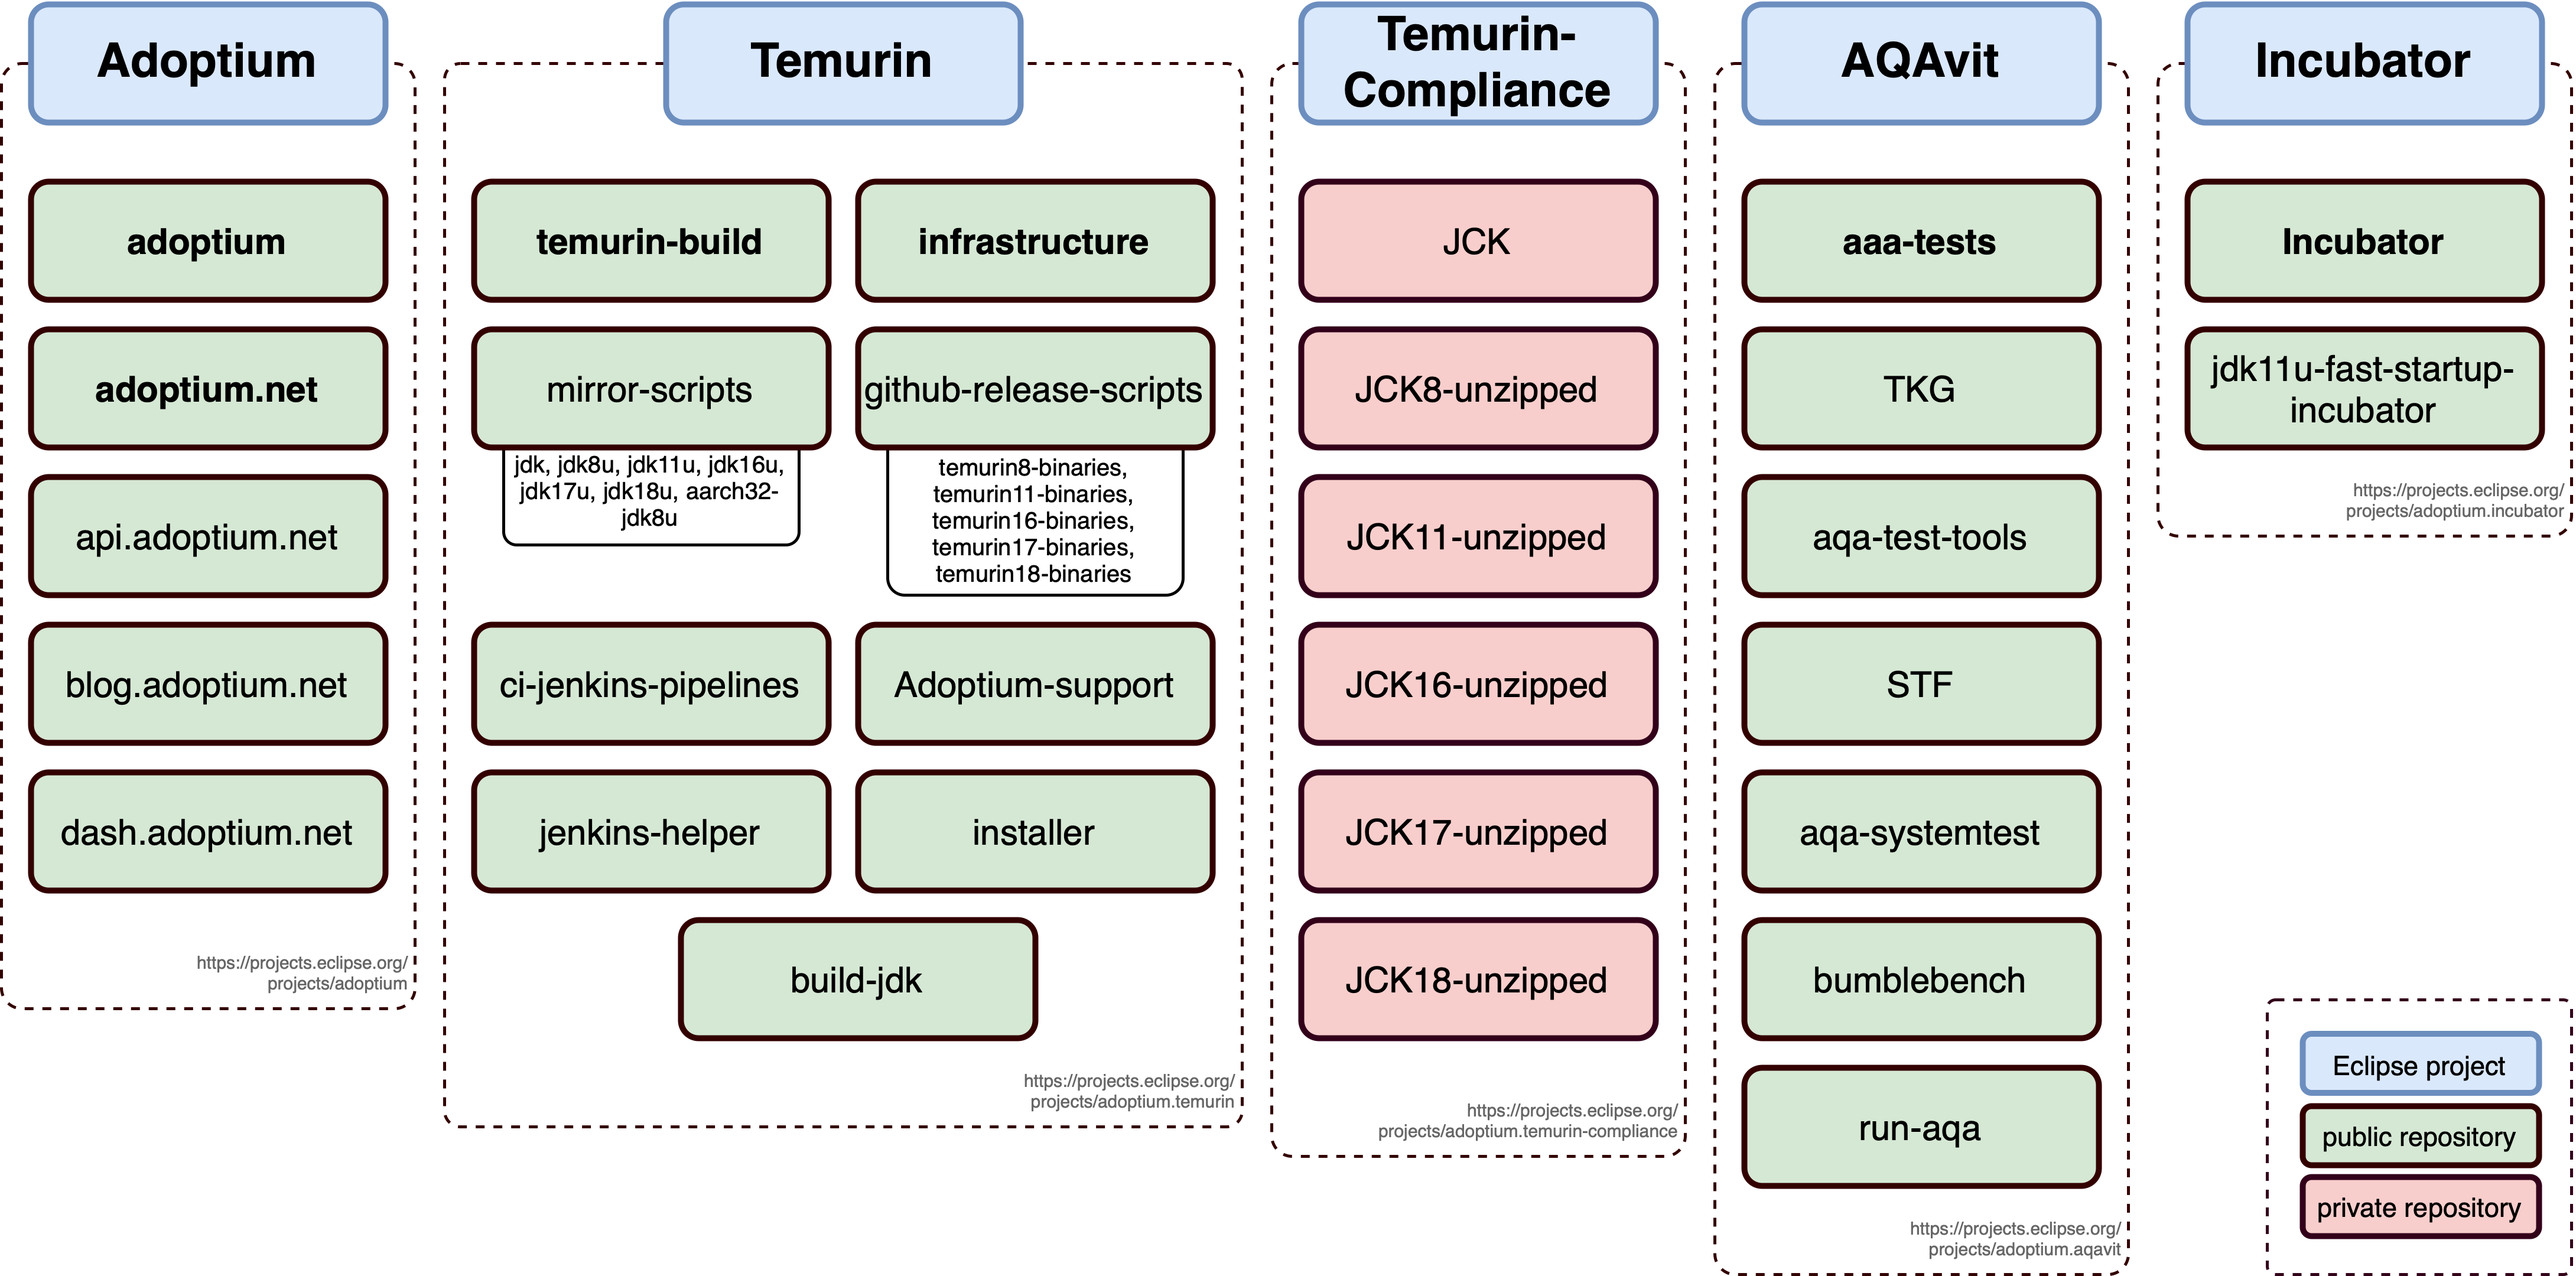
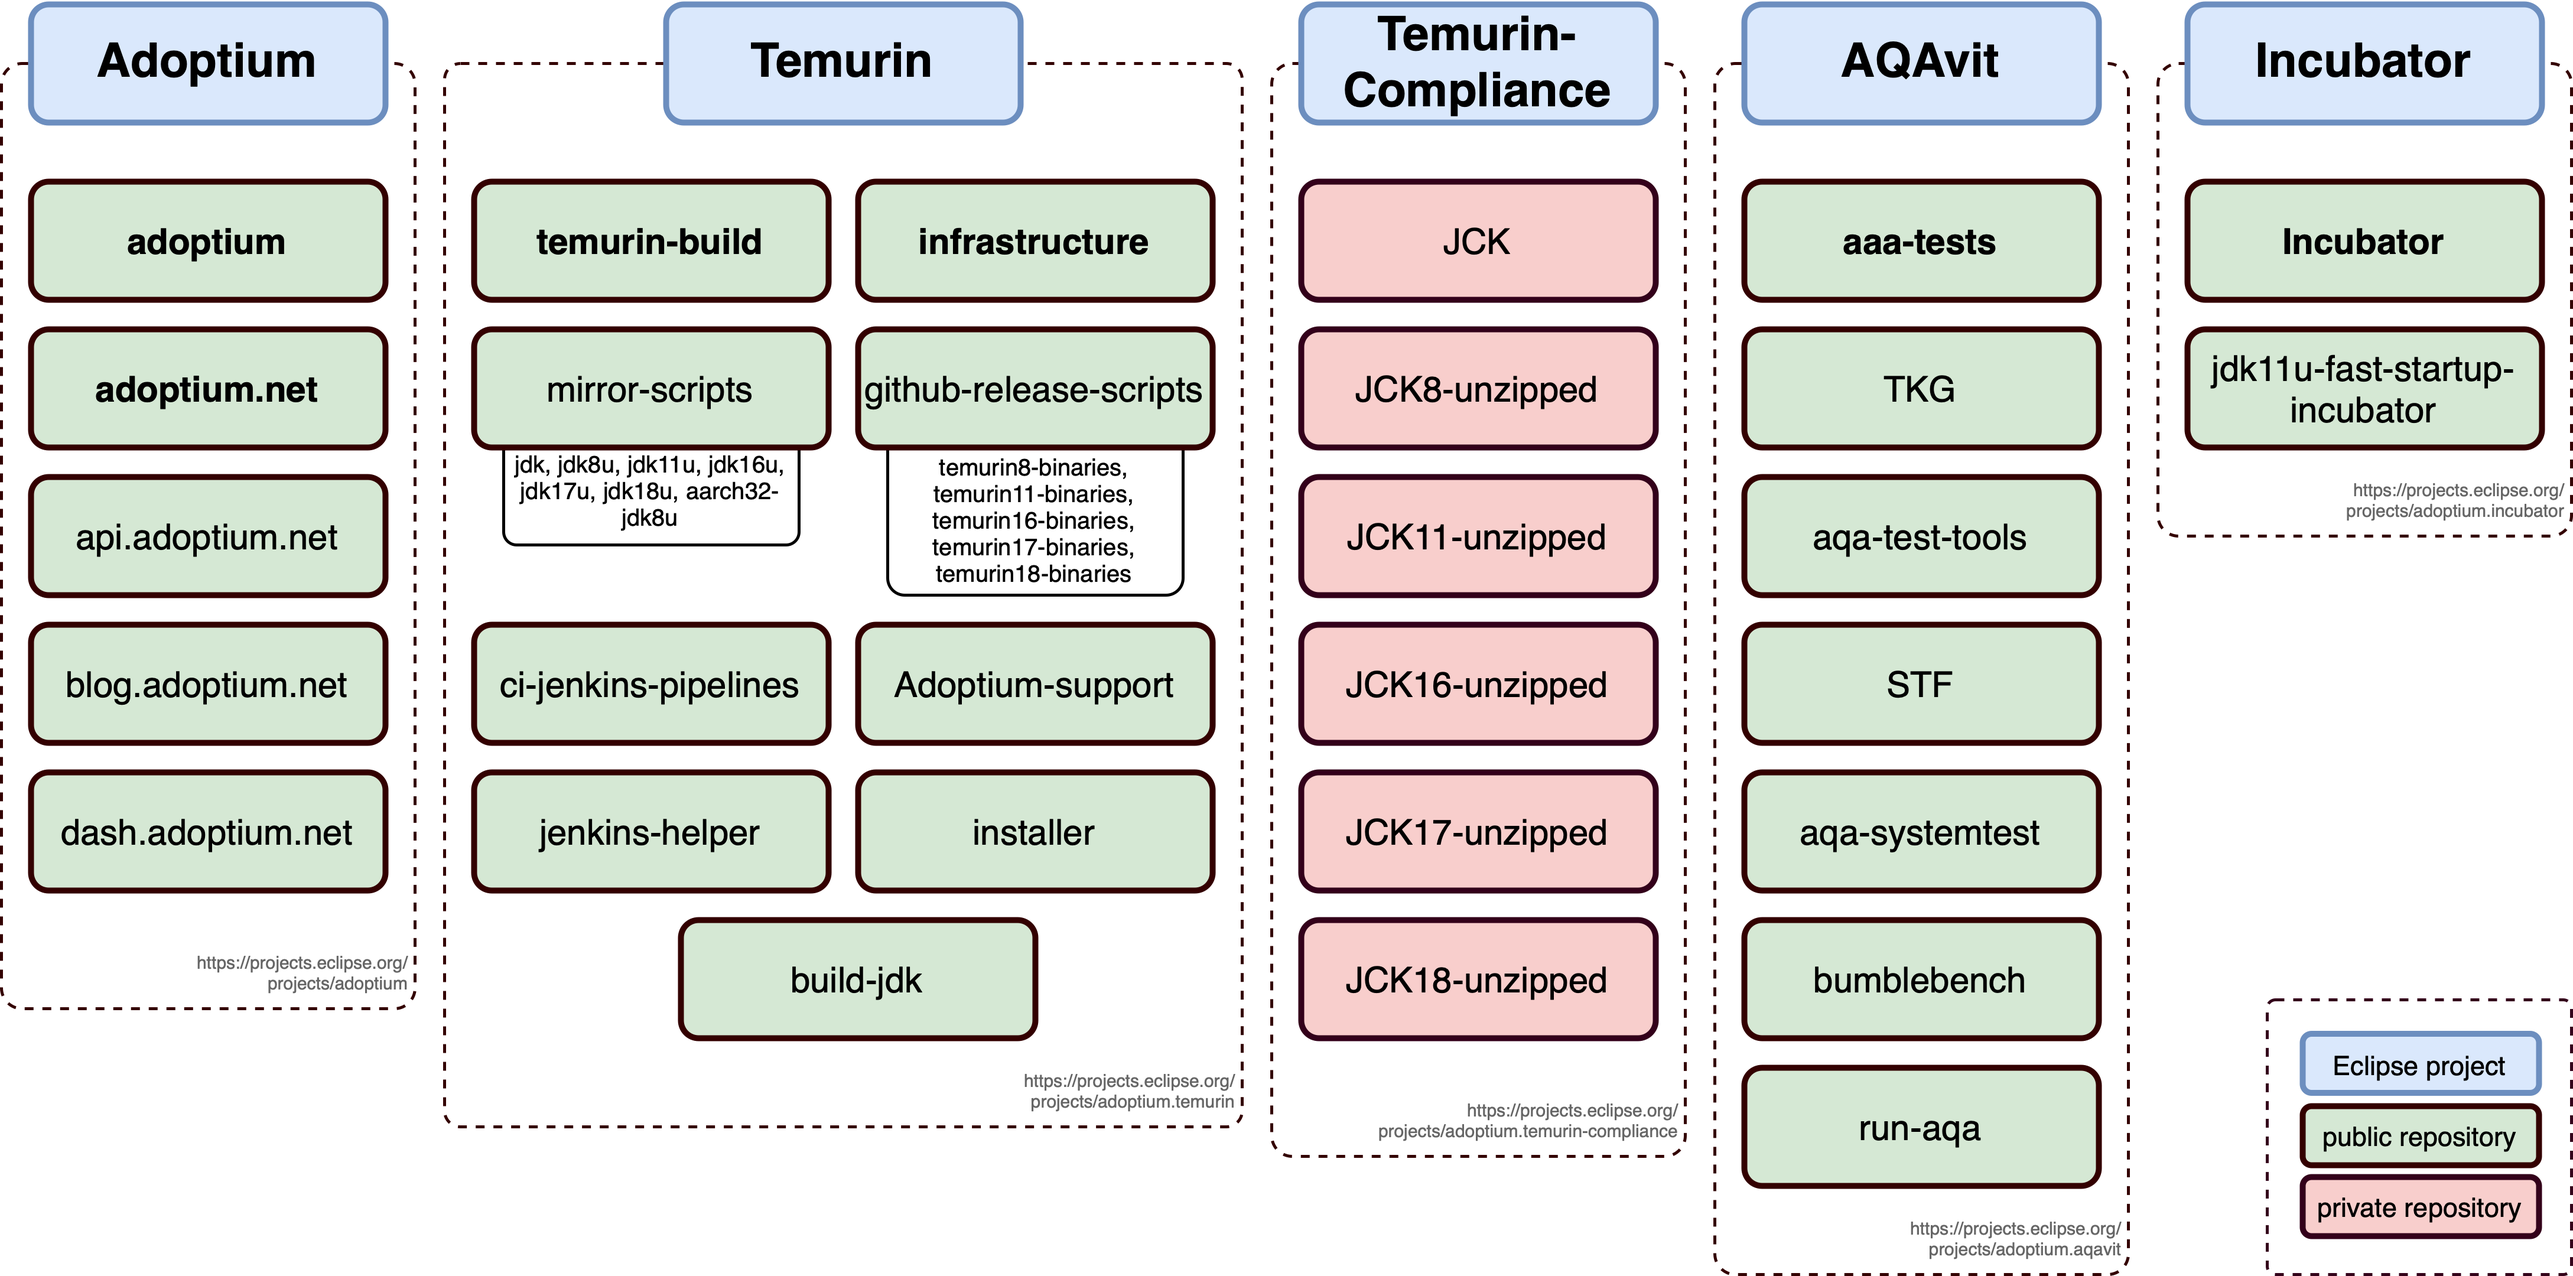
SVG added white background

diff --git a/README.md b/README.md
@@ -15,7 +15,7 @@ This organization provides a home for Git repositories that contain the activiti
 
 Please see the [Eclipse Adoptium Project](https://projects.eclipse.org/projects/adoptium) description for more information regarding the Adoptium top-level project or its sub-projects (visually depicted in the diagram below).
 
-![Extra Projects](images/repository-overview.png)
+![Extra Projects](images/repository-overview.svg)
 
 ## Eclipse Adoptium Working Group
 
